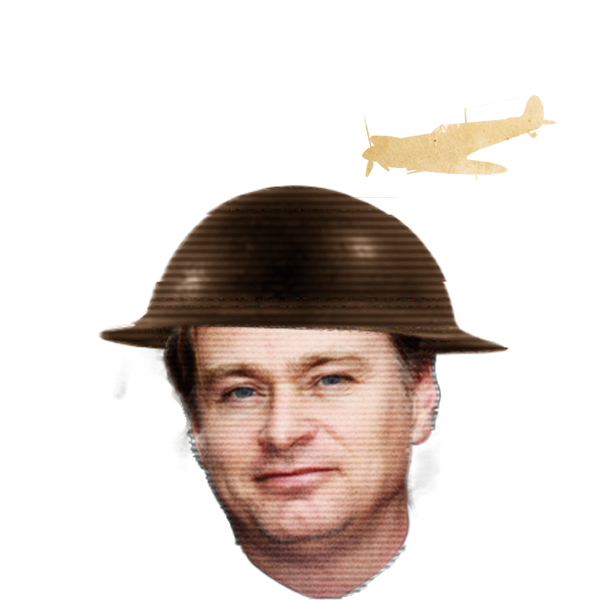
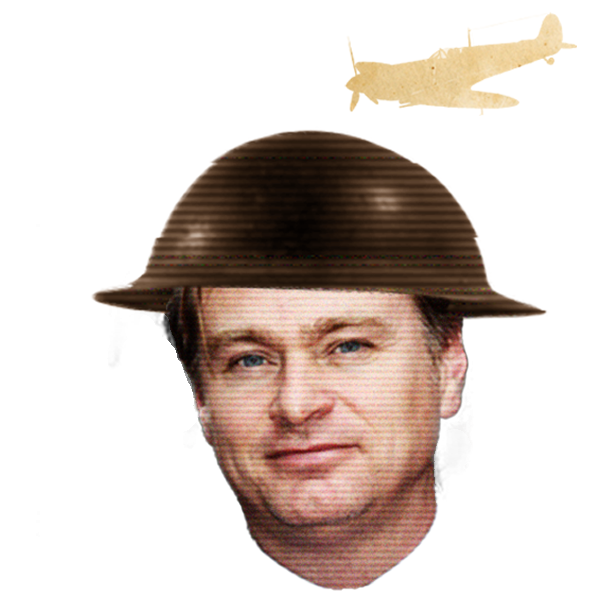
intro images enhancemments + part 4 under construction

diff --git a/src/index.html b/src/index.html
@@ -87,7 +87,7 @@
         </article>
       </div>
       <div class="trademark1-quote-image-container">
-        <img src="/assets/img/tm1/tm1q1.png" width="100%" alt="trademark1 quote">
+        <img src="/assets/img/tm1/tm1q1.png" width="1140" height="599" alt="trademark1 quote">
       </div>
     </section>
     <section class="trademark2-container">
@@ -131,9 +131,41 @@
             <p class="paragraph">“Well, I’ve never use email or phones because I don’t find it would help me with anything I’m doing”. Dit zei Chris over het gebruiken van telefoons en email. Hij vind dat dit hem niet helpt bij het maken van een film en meer tijd geeft om nuttig na te denken. Zijn assistent Andy
             Thompson beheert al zijn mails en telefoons. Wanneer er een echte belangrijke mail is print hij deze af en geeft hij het door aan Nolan. Wanneer hij dringend moet bereikt worden heeft hij genoeg mensen rond hem die ze kunnen bereiken. </p>
           </article>
-
         </div>
       </div>
+    </section>
+    <section class="trademark3-container">
+      <div class="trademark3-header-container center">
+        <div class="trademark3-header-title-container">
+          <h1 class="tm-title">Trade Mark 3</h1>
+          <p class="tm-subtitle">ANTI NOLAN</p>
+        </div>
+      </div>
+        <div class="trademark3-content-container center">
+          <div class="trademark3-content-colum1-container">
+            <article class="tm3-article1">
+              <h1 class="title">Haat voor Netflix</h1>
+              <p class="paragraph">Christopher Nolan is geen fan van Netflix. Vooral als het gaat om de houding van streaming-gigant tegenover het maken van films. Hij haat het feit dat Netflix er op staat zijn films te streamen terwijl ze tegelijkertijd in de bioscoop verschijnen. Een praktijk die volgens hem onherstelbare schade toebrengt aan bioscopen.
+              Nolan is de voorbestemde legendarische filmregisseur die ons Inception, The Dark Knight en Interstellar heeft gebracht. Alle drie zijn absolute klassiekers. Nolan zou echter geen van die films voor Netflix hebben gemaakt, simpelweg omdat hij het fel met het distributiemodel van het bedrijf eens is.</p>
+            </article>
+            <div class="trademark3-content-image-container">
+
+            </div>
+          </div>
+          <div class="trademark3-content-colum2-container">
+            <article>
+              <h1 class="title">Tegen CGI of 3D</h1>
+              <p class="paragraph bold">Nolan geeft toe dat hij CGI in zijn films gebruikt, maar hij gebruikt het om het verhaal te vertellen in plaats van er een grootschalig visueel spektakel van te maken. Hij is van mening dat er een dunne lijn is tussen hoe een film CGI gebruikt en dat hij geen interesse heeft in het maken van de bigbudget-blockbusters. Dit is wat hij te zeggen had:</p>
+              <p class="paragraph">"Het ding met door de computer gegenereerde beelden is dat het een ongelooflijk krachtige tool is voor het maken van betere visuele effecten. Maar ik geloof in een absoluut verschil tussen animatie en fotografie. Hoe geavanceerd je door de computer gegenereerde beelden ook zijn, als het is gemaakt op basis van geen fysieke elementen en je niets hebt gefotografeerd, wordt het een soort animatie. Er zijn meestal twee verschillende doelen in een film met visuele effecten. Een daarvan is om het publiek voor de gek te houden om iets naadloos te zien, en dat is hoe ik het probeer te gebruiken. De andere is om indruk te maken op het publiek met de hoeveelheid geld die wordt besteed aan het schouwspel van het visuele effect, en waar ik niet in geïnteresseerd ben. We proberen onze stuntwerk- en vloereffecten te verbeteren met buitengewone CGI-tools zoals draad- en rigverhuizingen. Als je veel tijd en moeite besteedt aan het afstemmen van je originele filmelementen, kan het soort verbeteringen dat je in de frames kunt aanbrengen, het oog bederven, waardoor de resultaten veel verder gaan dan wat 20 jaar geleden mogelijk was. Het probleem voor mij is als je niet eerst iets schiet met de camera waarop je de opname wilt baseren, het visuele effect zal uitkomen als de film die je maakt een realistische stijl of patina heeft. Ik geef de voorkeur aan films die meer op het echte leven lijken, dus elke CGI moet heel zorgvuldig worden behandeld om daarin te passen. "</p>
+              <p class="paragraph">CGI is vandaag een relevant hulpmiddel in de film en maakt het onmogelijk om op het scherm mogelijk te worden. Maar er komt een tijd dat een productie oververzadigd kan zijn - wat de waarde van de film zelf verlaagt. CGI wordt niet goed ouder - en hoe ouder een CGI-zware film wordt, hoe meer de CGI eruit springt. In feite zegt Nolan dat hij geen films maakt alleen voor de visuele effecten, maar om de verhalen te vertellen en CGI alleen gebruikt wanneer dat nodig is. Dat is een enorme reden waarom zijn films - ongeacht waar het om gaat - in de realiteit zo veel meer gegrond lijken dan andere films.</p>
+              <p class="paragraph bold">Ten slotte sprak Nolan zijn mening over 3D uit. En zoals je je kunt voorstellen, hij is er geen grote fan van:</p>
+              <p class="paragraph">"Warner Bros. zou heel gelukkig zijn geweest, maar ik zei tegen de jongens dat ik wilde dat het stylistisch consistent was met de eerste twee films en we zouden echt het IMAX-ding pushen om een beeld van zeer hoge kwaliteit te creëren. Ik vind stereoscopische beeldvorming te kleinschalig en intiem in zijn effect. 3D is een verkeerde benaming. Films zijn 3D. Het hele punt van fotografie is dat het driedimensionaal is. Het ding met stereoscopische beeldvorming biedt elk publiekslid een individueel perspectief. Het is zeer geschikt voor videogames en andere meeslepende technologieën, maar als je op zoek bent naar een kijkervaring, is stereoscopisch moeilijk om te nemen. Ik geef de voorkeur aan het grote canvas, kijkend naar een enorm scherm en naar een beeld dat groter aanvoelt dan het leven. Wanneer je dat stereoscopisch behandelt, en we hebben heel wat tests geprobeerd, verkleint je de grootte, zodat het beeld een veel kleiner venster voor je wordt. Dus het effect ervan, en de relatie van het beeld met het publiek, moet zeer zorgvuldig worden overwogen. En ik voel dat in de eerste golf om het te omarmen, dat niet in het minst werd overwogen. "</p>
+            </article>
+          </div>
+        </div>
+        <div class="trademark3-quote-image-container">
+          <img src="/assets/img/tm3/tm3q1.png" width="1440" height="595" alt="trademark3 quote">
+        </div>
     </section>
   </main>
 

diff --git a/src/css/style.css b/src/css/style.css
@@ -246,8 +246,16 @@ main {
 .trademark1-quote-image-container {
 
   & img {
+    width: 100vw;
+    height: auto;
     margin-top: -20rem;
   }
+}
+
+.trademark2-container {
+  position: relative;
+  z-index: -20;
+  overflow: hidden;
 }
 
 .trademark2-header-container {
@@ -300,7 +308,7 @@ main {
   width: 34.5rem;
   height: 37.5rem;
   position: absolute;
-  z-index: -1;
+  z-index: -8;
   left: 7.8rem;
   display: flex;
   justify-content: center;
@@ -315,7 +323,8 @@ main {
 }
 
 .tm2-img1 {
-  z-index: -2;
+  position: relative;
+  z-index: -10;
 }
 
 .tm2-img2 {
@@ -331,7 +340,7 @@ main {
 }
 
 .tm2-imgBGEffect {
-  background-color: grey;
+  background-color: #777;
   transition: background-color .5s;
 
   & img {
@@ -342,4 +351,65 @@ main {
 
 .tm2-articleEffect {
   opacity: .2;
+}
+
+.trademark3-container {
+  position: relative;
+  width: 100%;
+  background-blend-mode: luminosity;
+  background-image: url(/assets/img/bg/WornPattern.jpg);
+  background-repeat: repeat;
+  background-size: 15rem;
+  background-color: white;
+  box-shadow: var(--box-shadow);
+  transform: skewY(5deg);
+  display: flex;
+  flex-direction: column;
+  justify-content: center;
+  align-items: center;
+}
+
+.trademark3-header-container {
+  display: flex;
+  justify-content: flex-end;
+  margin-top: 9.5rem;
+
+  & p {
+    background-image: url(/assets/img/bg/tm3bg.png);
+    background-repeat: no-repeat;
+    background-size: 25rem;
+  }
+
+  & article {
+    width: 52rem;
+  }
+}
+
+.trademark3-content-container {
+  transform: skewY(-5deg);
+  margin-top: 6rem;
+  display: flex;
+  justify-content: space-around;
+
+  & .bold {
+    font-weight: 900;
+  }
+
+  & h1 {
+    margin-bottom: 3rem;
+  }
+
+  & p {
+    width: 52rem;
+    margin-bottom: 4rem;
+  }
+
+  & .trademark3-content-image-container {
+    height: 190rem;
+  }
+}
+
+.trademark3-quote-image-container {
+  margin-top: -45rem;
+
 }

diff --git a/src/js/App.js b/src/js/App.js
@@ -34,7 +34,7 @@ const setupListeners = () => {
 };
 
 const setupIntroductionTimer = () => {
-  const interval = 10000; //miliseconden
+  const interval = 1000; //miliseconden
   setInterval(changeImage, interval);
 };
 
@@ -43,6 +43,7 @@ const setupReactElements = () => {
 };
 
 const tm2scrollEffect = () => {
+  console.log(window.scrollY);
   const scroll = window.scrollY;
   if (scroll <= 3200) {
     tm2article1.classList.remove(`tm2-articleEffect`);
@@ -73,7 +74,7 @@ const scrollCorner = () => {
   //console.log(window.scrollY);
   if (scroll <= 2800) {
     cornerImage.src = `/assets/img/corners/corner_1.png`;
-  } else if (scroll <= 4000) {
+  } else if (scroll <= 4300) {
     cornerImage.src = `/assets/img/corners/corner_2.png`;
   } else if (scroll <= 5000) {
     cornerImage.src = `/assets/img/corners/corner_3.png`;
